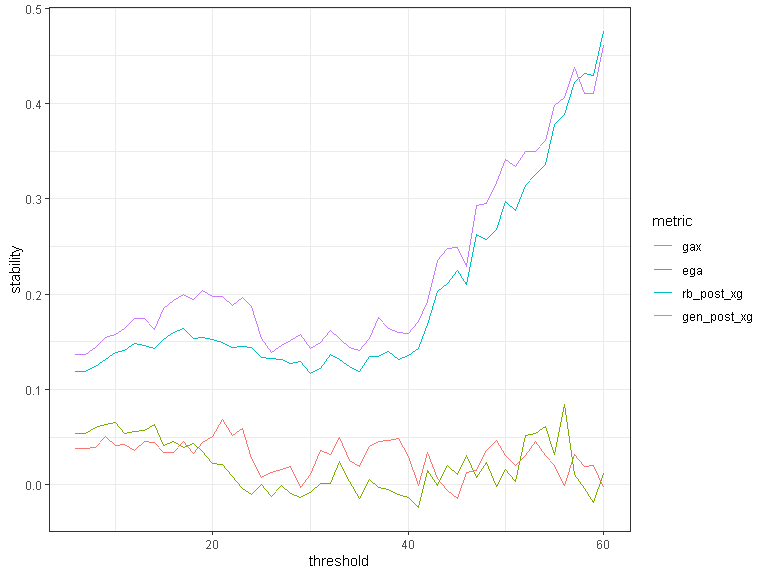
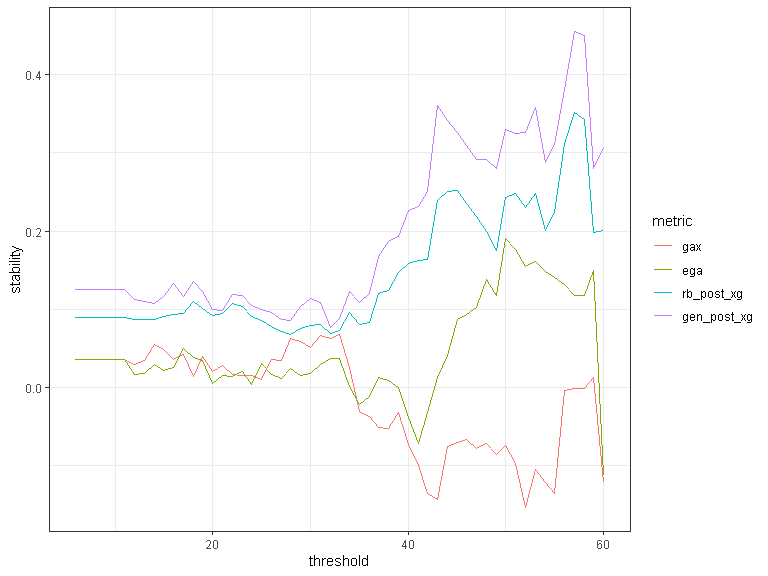
All open play foot shots, no flip

diff --git a/reproduction/miss_it_like_messi.md b/reproduction/miss_it_like_messi.md
@@ -21,21 +21,21 @@ statsbomb_shots_processed |>
 
 | League | Season | num_shots |
 |:-------|-------:|----------:|
-| ARG    |   2019 |      2366 |
-| FR2    |   2018 |      2892 |
-| FR2    |   2019 |      2264 |
-| FR2    |   2020 |      2824 |
-| GR2    |   2018 |      2566 |
-| GR2    |   2019 |      2646 |
-| GR2    |   2020 |      2443 |
-| MLS    |   2018 |      3552 |
-| MLS    |   2019 |      3829 |
-| MLS    |   2020 |      2620 |
-| NED    |   2018 |      2774 |
-| NED    |   2019 |      2136 |
-| NED    |   2020 |      2603 |
-| USL    |   2019 |      1701 |
-| USL    |   2020 |      2332 |
+| ARG    |   2019 |      3409 |
+| FR2    |   2018 |      4438 |
+| FR2    |   2019 |      3290 |
+| FR2    |   2020 |      4300 |
+| GR2    |   2018 |      4086 |
+| GR2    |   2019 |      4099 |
+| GR2    |   2020 |      3881 |
+| MLS    |   2018 |      5857 |
+| MLS    |   2019 |      6220 |
+| MLS    |   2020 |      4294 |
+| NED    |   2018 |      4571 |
+| NED    |   2019 |      3384 |
+| NED    |   2020 |      4198 |
+| USL    |   2019 |      2677 |
+| USL    |   2020 |      3823 |
 
 ## Figure 1
 
@@ -294,11 +294,11 @@ stability_data |>
 
 |               | goal_pct_b |     gax_b |      ega_b | rb_post_xg_b | gen_post_xg_b |
 |:--------------|-----------:|----------:|-----------:|-------------:|--------------:|
-| goal_pct_a    |  0.0504398 | 0.0479698 |  0.0099914 |    0.0072382 |     0.0107215 |
-| gax_a         |  0.0434784 | 0.0444193 | -0.0000781 |   -0.0018262 |     0.0006315 |
-| ega_a         |  0.0371670 | 0.0322199 |  0.0072857 |    0.0117910 |     0.0165535 |
-| rb_post_xg_a  |  0.0356349 | 0.0316687 | -0.0015131 |    0.0699952 |     0.0805474 |
-| gen_post_xg_a |  0.0394548 | 0.0332513 | -0.0012836 |    0.0840899 |     0.0883617 |
+| goal_pct_a    |  0.2027644 | 0.0358458 |  0.0383046 |    0.1159732 |     0.1418942 |
+| gax_a         |  0.0439170 | 0.0353784 |  0.0249364 |    0.0346212 |     0.0461835 |
+| ega_a         |  0.0202310 | 0.0052795 |  0.0359962 |   -0.0057294 |     0.0177890 |
+| rb_post_xg_a  |  0.1003951 | 0.0089543 | -0.0023580 |    0.0901741 |     0.0887619 |
+| gen_post_xg_a |  0.1258638 | 0.0265365 |  0.0167276 |    0.0984178 |     0.1247535 |
 
 ## Table 4
 
@@ -324,13 +324,35 @@ stability_data |>
   knitr::kable()
 ```
 
-|               | goal_pct_b |      gax_b |     ega_b | rb_post_xg_b | gen_post_xg_b |
-|:--------------|-----------:|-----------:|----------:|-------------:|--------------:|
-| goal_pct_a    |  0.0909079 |  0.0731302 | 0.1085867 |   -0.0526890 |     0.0002168 |
-| gax_a         |  0.0769423 |  0.0614395 | 0.0898154 |   -0.0426120 |    -0.0012271 |
-| ega_a         | -0.0320833 | -0.0411309 | 0.0630560 |    0.0417377 |     0.0361398 |
-| rb_post_xg_a  | -0.0063821 | -0.0154622 | 0.1170909 |    0.1417057 |     0.1897055 |
-| gen_post_xg_a |  0.0403484 |  0.0326014 | 0.1230452 |    0.1680108 |     0.2002205 |
+|               | goal_pct_b |     gax_b |     ega_b | rb_post_xg_b | gen_post_xg_b |
+|:--------------|-----------:|----------:|----------:|-------------:|--------------:|
+| goal_pct_a    |  0.2860967 | 0.0409510 | 0.0257428 |    0.0820973 |     0.0767302 |
+| gax_a         |  0.0373490 | 0.0514288 | 0.0195463 |   -0.0444605 |    -0.0546322 |
+| ega_a         |  0.0019526 | 0.0365588 | 0.0183749 |   -0.0820686 |    -0.1033689 |
+| rb_post_xg_a  |  0.2356703 | 0.0897136 | 0.0889702 |    0.0789043 |     0.0911182 |
+| gen_post_xg_a |  0.2582759 | 0.1200006 | 0.1044142 |    0.1053098 |     0.1140458 |
+
+``` r
+stability_data |>
+  dplyr::filter(n_a + n_b >= 50)
+#> # A tibble: 75 x 16
+#>    player Season first~1 rb_po~2 gen_p~3 goal_~4    gax_a    ega_a   n_a first~5
+#>    <fct>   <int> <lgl>     <dbl>   <dbl>   <dbl>    <dbl>    <dbl> <int> <lgl>  
+#>  1 Aleks~   2018 TRUE      0.189   0.192  0.192   0.0882   0.0334     26 FALSE  
+#>  2 Aleks~   2019 TRUE      0.184   0.181  0.0938  0.0423   0.0199     32 FALSE  
+#>  3 Alexa~   2019 TRUE      0.191   0.189  0.16    0.0592   0.0500     25 FALSE  
+#>  4 Andre~   2018 TRUE      0.200   0.205  0.167   0.0104   0.0360     24 FALSE  
+#>  5 Arthu~   2018 TRUE      0.190   0.184  0.16   -0.00140  0.0335     25 FALSE  
+#>  6 Bradl~   2018 TRUE      0.192   0.190  0.269   0.0913   0.0676     26 FALSE  
+#>  7 Brani~   2020 TRUE      0.189   0.186  0.133  -0.0304  -0.00890    30 FALSE  
+#>  8 Bryan~   2018 TRUE      0.182   0.177  0.08   -0.0276  -0.00542    25 FALSE  
+#>  9 Carlo~   2018 TRUE      0.191   0.194  0.111   0.0491   0.0122     27 FALSE  
+#> 10 Carlo~   2019 TRUE      0.195   0.195  0.311   0.157    0.0655     45 FALSE  
+#> # ... with 65 more rows, 6 more variables: rb_post_xg_b <dbl>,
+#> #   gen_post_xg_b <dbl>, goal_pct_b <dbl>, gax_b <dbl>, ega_b <dbl>, n_b <int>,
+#> #   and abbreviated variable names 1: first_half_season_a, 2: rb_post_xg_a,
+#> #   3: gen_post_xg_a, 4: goal_pct_a, 5: first_half_season_b
+```
 
 ## Figure 6
 
